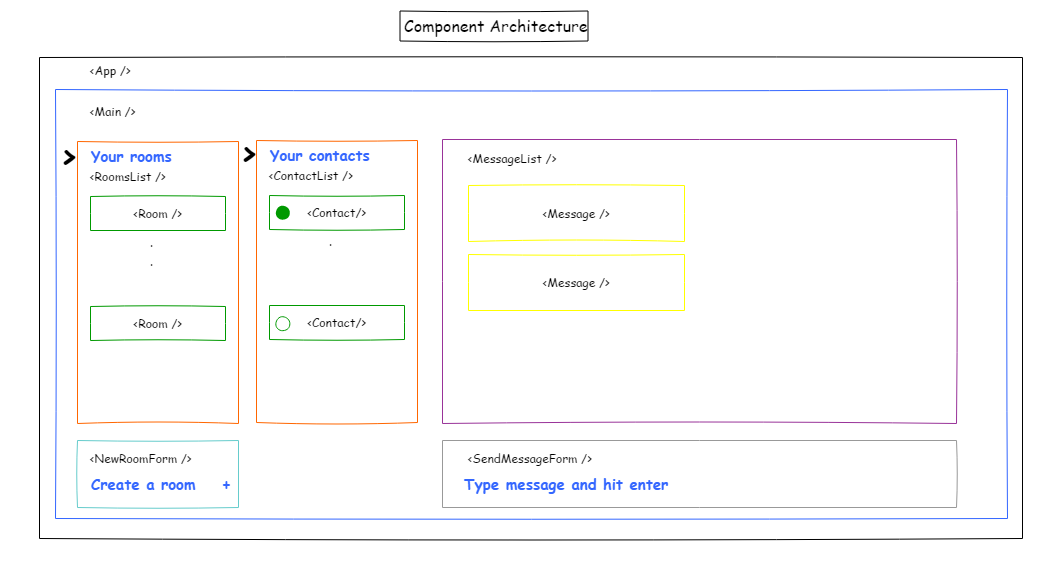
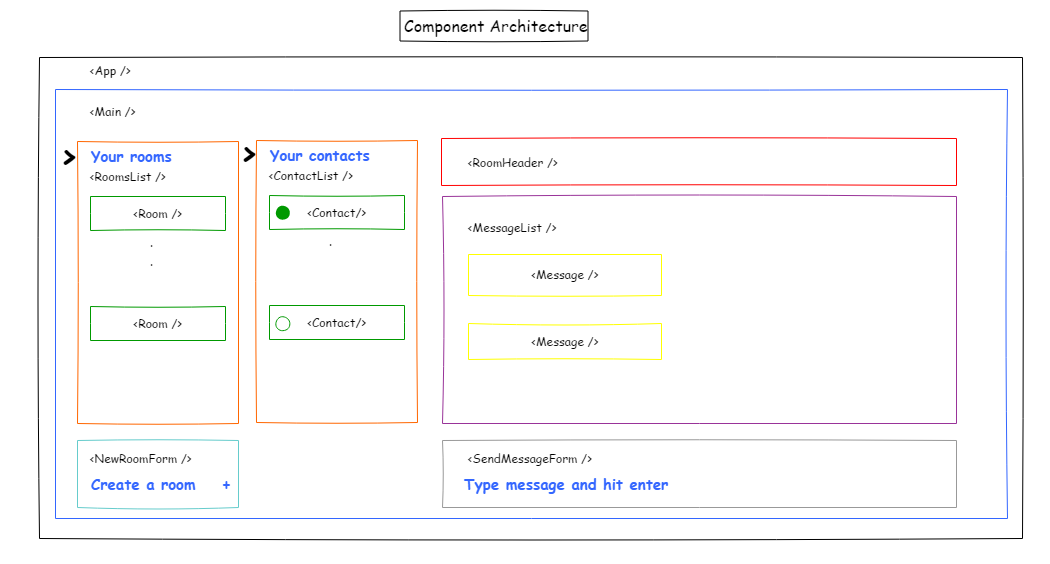
Feat: add responsive for small screens

diff --git a/src/App.css b/src/App.css
@@ -23,7 +23,7 @@ body {
 .app {
   display: grid;
   height: 100%;
-  grid-template-columns: repeat(6, 1fr);
+  grid-template-columns: 180px 175px 1fr 1fr 1fr 1fr;
   grid-template-rows: 60px 1fr 1fr 1fr 1fr 60px;
   grid-template-areas:
     'r c h h h h'
@@ -65,6 +65,7 @@ body {
   background-color: var(--main-color);
   overflow: scroll;
   height: 100%;
+  margin-right: 5px;
 }
 
 .rooms-list > ul {
@@ -258,4 +259,65 @@ body {
 .help-text {
   position: absolute;
   top: 10px;
+}
+
+/* media queries */
+/* for small screens */
+@media screen and (max-width: 650px) {
+  .app {
+    overflow-x: hidden;
+    grid-template-columns: 160px 1fr 1fr 1fr 1fr 1fr;
+    grid-template-areas:
+      'r h h h h h'
+      'r m m m m m'
+      'r m m m m m'
+      'c m m m m m'
+      'c m m m m m'
+      'n s s s s s';
+  }
+
+  .room-header {
+    position: relative;
+    transition: position 0.3s ease-out;
+    top: 0;
+    display: flex;
+    justify-content: space-between;
+  }
+
+  .room-header h1 {
+    padding-right: 13px;
+  }
+
+  .rooms-list {
+    margin-right: 0;
+    margin-top: 0;
+  }
+
+  .message-list {
+    padding: 0 6px;
+    position: relative;
+    transition: position 0.3s ease-out;
+  }
+
+  .message .message-text {
+    display: inline-block;
+  }
+
+  .send-message-form {
+    bottom: 0;
+    right: 0;
+    width: 100%;
+  }
+
+  .full-area {
+    position: absolute;
+    top: 64px;
+    margin-bottom: 40px; /* to get send message form not overlap the last message */
+  }
+
+  .fixed {
+    /* This forces Chrome to use hardware acceleration to continuously paint the fixed element and avoid this bizarre behavior.*/
+    -webkit-transform: translateZ(0);
+    position: fixed;
+  }
 }

diff --git a/src/components/Main.js b/src/components/Main.js
@@ -15,7 +15,15 @@ class Main extends Component {
     joinedRooms: [],
     currentRoomId: null,
     roomUsers: [],
-    currentRoomName: null
+    currentRoomName: null,
+    messageFullArea: false
+  };
+
+  // <MessagesList /> take full width
+  handleHamburgerClick = () => {
+    this.setState(prevState => {
+      return { messageFullArea: !prevState.messageFullArea };
+    });
   };
 
   sendMessageToChatkit = message => {
@@ -146,12 +154,15 @@ class Main extends Component {
         <RoomHeader
           currentRoomName={this.state.currentRoomName}
           currentRoomId={this.state.currentRoomId}
+          handleHamburgerClick={this.handleHamburgerClick}
+          messageFullArea={this.state.messageFullArea}
         />
 
         <MessageList
           messages={this.state.messages}
           startMessage={this.state.startMessage}
           currentRoomId={this.state.currentRoomId}
+          messageFullArea={this.state.messageFullArea}
         />
 
         <RoomList
@@ -168,6 +179,7 @@ class Main extends Component {
         <SendMessageForm
           sendMessage={this.sendMessageToChatkit}
           currentRoomId={!this.state.currentRoomId}
+          messageFullArea={this.state.messageFullArea}
         />
       </div>
     );

diff --git a/src/components/MessageList.js b/src/components/MessageList.js
@@ -32,11 +32,13 @@ class MessageList extends Component {
   }
 
   render() {
-    const { messages, currentRoomId } = this.props;
+    const { messages, currentRoomId, messageFullArea } = this.props;
 
     const roomMessages = messages.map((message, index) => {
       return <Message senderId={message.senderId} text={message} key={message.id} />;
     });
+
+    const fullArea = messageFullArea ? 'full-area' : '';
 
     if (!currentRoomId) {
       return (
@@ -47,7 +49,7 @@ class MessageList extends Component {
     }
 
     return (
-      <div className="message-list" ref={this.messageListRef}>
+      <div className={`message-list  ${fullArea}`} ref={this.messageListRef}>
         {roomMessages}
       </div>
     );

diff --git a/src/components/RoomHeader.js b/src/components/RoomHeader.js
@@ -1,9 +1,12 @@
 import React from 'react';
+import HamburgIcon from './HamburgIcon/HamburgIcon.js';
 
-const RoomHeader = ({ currentRoomName, currentRoomId }) => {
+const RoomHeader = ({ currentRoomName, currentRoomId, handleHamburgerClick, messageFullArea }) => {
+  const fixed = messageFullArea ? 'fixed' : '';
   if (currentRoomId) {
     return (
-      <header className="room-header">
+      <header className={`room-header ${fixed}`}>
+        <HamburgIcon handleHamburgerClick={handleHamburgerClick} />
         <h1>{currentRoomName}</h1>
       </header>
     );

diff --git a/src/components/HamburgIcon/HamburgIcon.js b/src/components/HamburgIcon/HamburgIcon.js
@@ -1,0 +1,20 @@
+import React from 'react';
+import './HamburgIcon.css';
+
+const HamburgIcon = props => {
+  return (
+    <button
+      aria-label="menu"
+      id="menu"
+      className="header_menu"
+      onClick={props.handleHamburgerClick}
+    >
+      <svg xmlns="http://www.w3.org/2000/svg" viewBox="0 0 24 24">
+        <path d="M2 6h20v3H2zm0 5h20v3H2zm0 5h20v3H2z" />
+      </svg>
+    </button>
+  );
+};
+
+export default HamburgIcon;
+// onClick={props.handleHamburgerClick}

diff --git a/src/components/SendMessageForm.js b/src/components/SendMessageForm.js
@@ -18,9 +18,11 @@ class SendMessageForm extends Component {
   };
 
   render() {
-    const { currentRoomId } = this.props;
+    const { currentRoomId, messageFullArea } = this.props;
+    const fixed = messageFullArea ? 'fixed' : '';
+
     return (
-      <div className="send-message-form">
+      <div className={`send-message-form  ${fixed}`}>
         <form onSubmit={this.handleSubmit}>
           <input
             disabled={currentRoomId} // if currentRoomId is null disable input

diff --git a/src/components/HamburgIcon/HamburgIcon.css b/src/components/HamburgIcon/HamburgIcon.css
@@ -1,0 +1,31 @@
+.header_menu {
+  /* display: inline-block;
+  position: absolute;
+  top: -6px; */
+  padding: 1em;
+  cursor: pointer;
+  background: transparent;
+  border: 0;
+}
+
+.header_menu svg {
+  width: 32px;
+  fill: #5ea3d0;
+}
+
+.header_menu svg:hover {
+  width: 32px;
+  fill: #333;
+}
+
+.header_menu:focus {
+  fill: #333;
+}
+
+/* media queries */
+/* for small screens */
+@media screen and (min-width: 650px) {
+  .header_menu {
+    display: none;
+  }
+}
